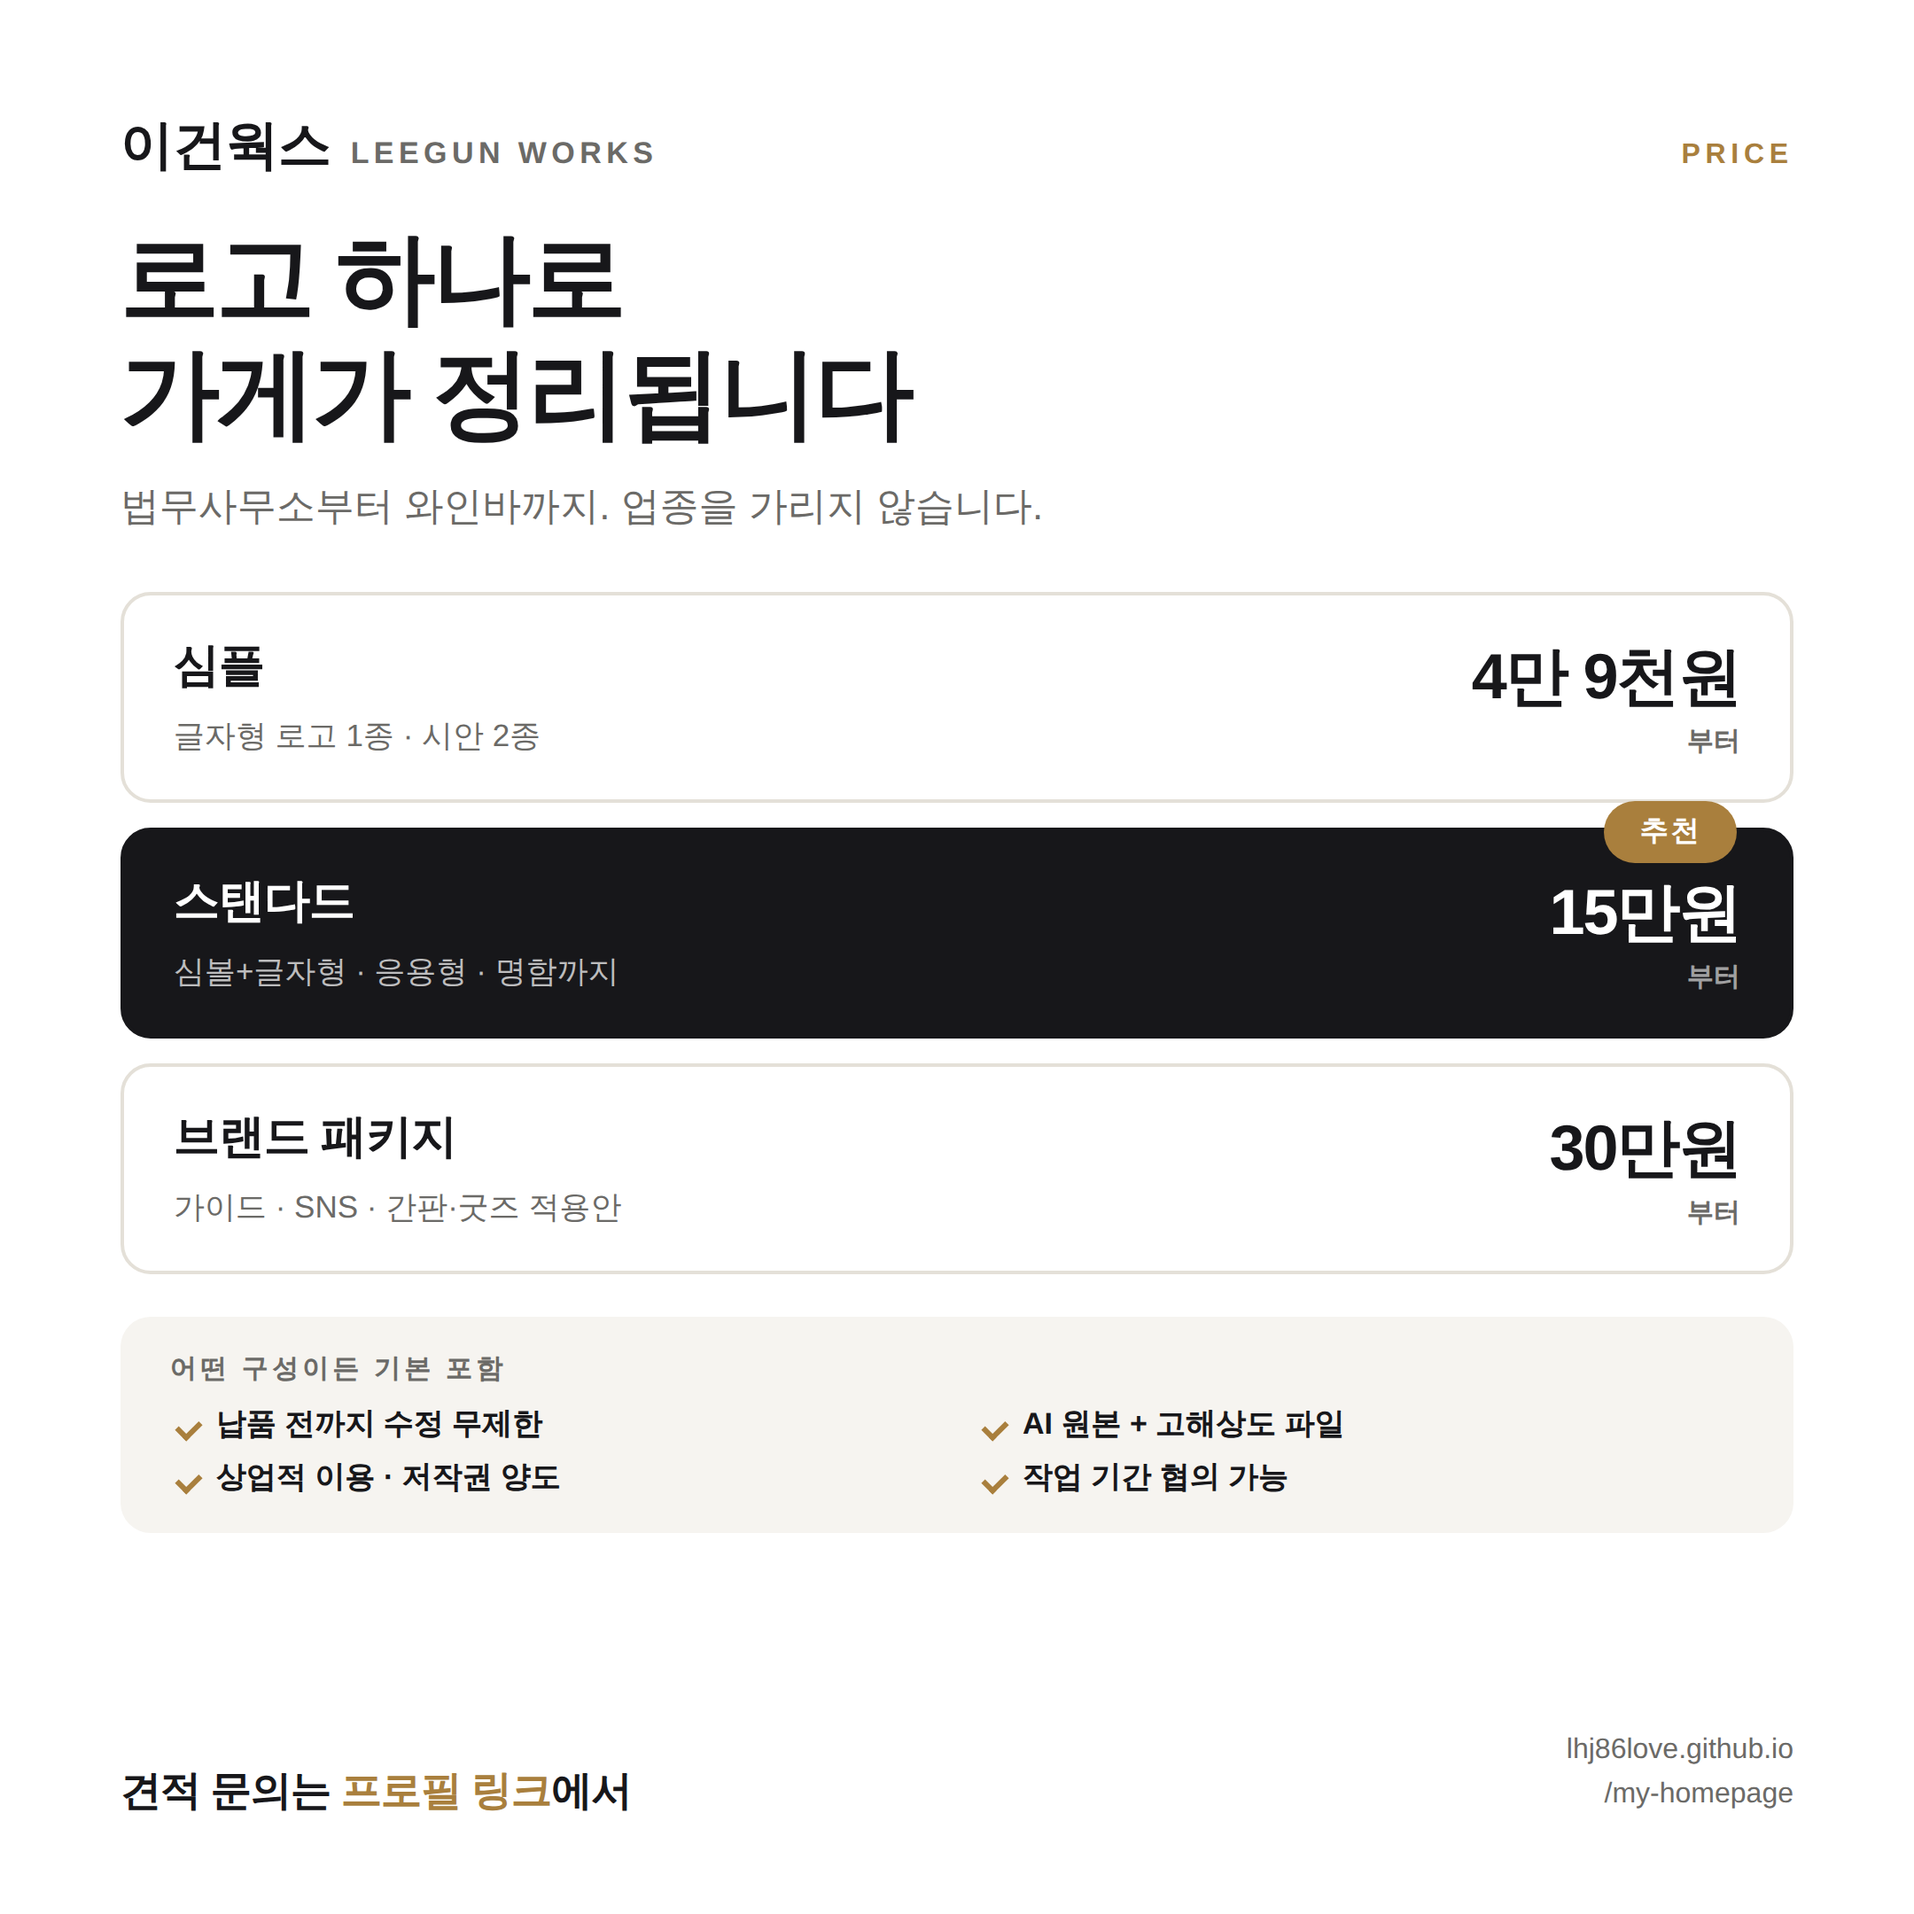
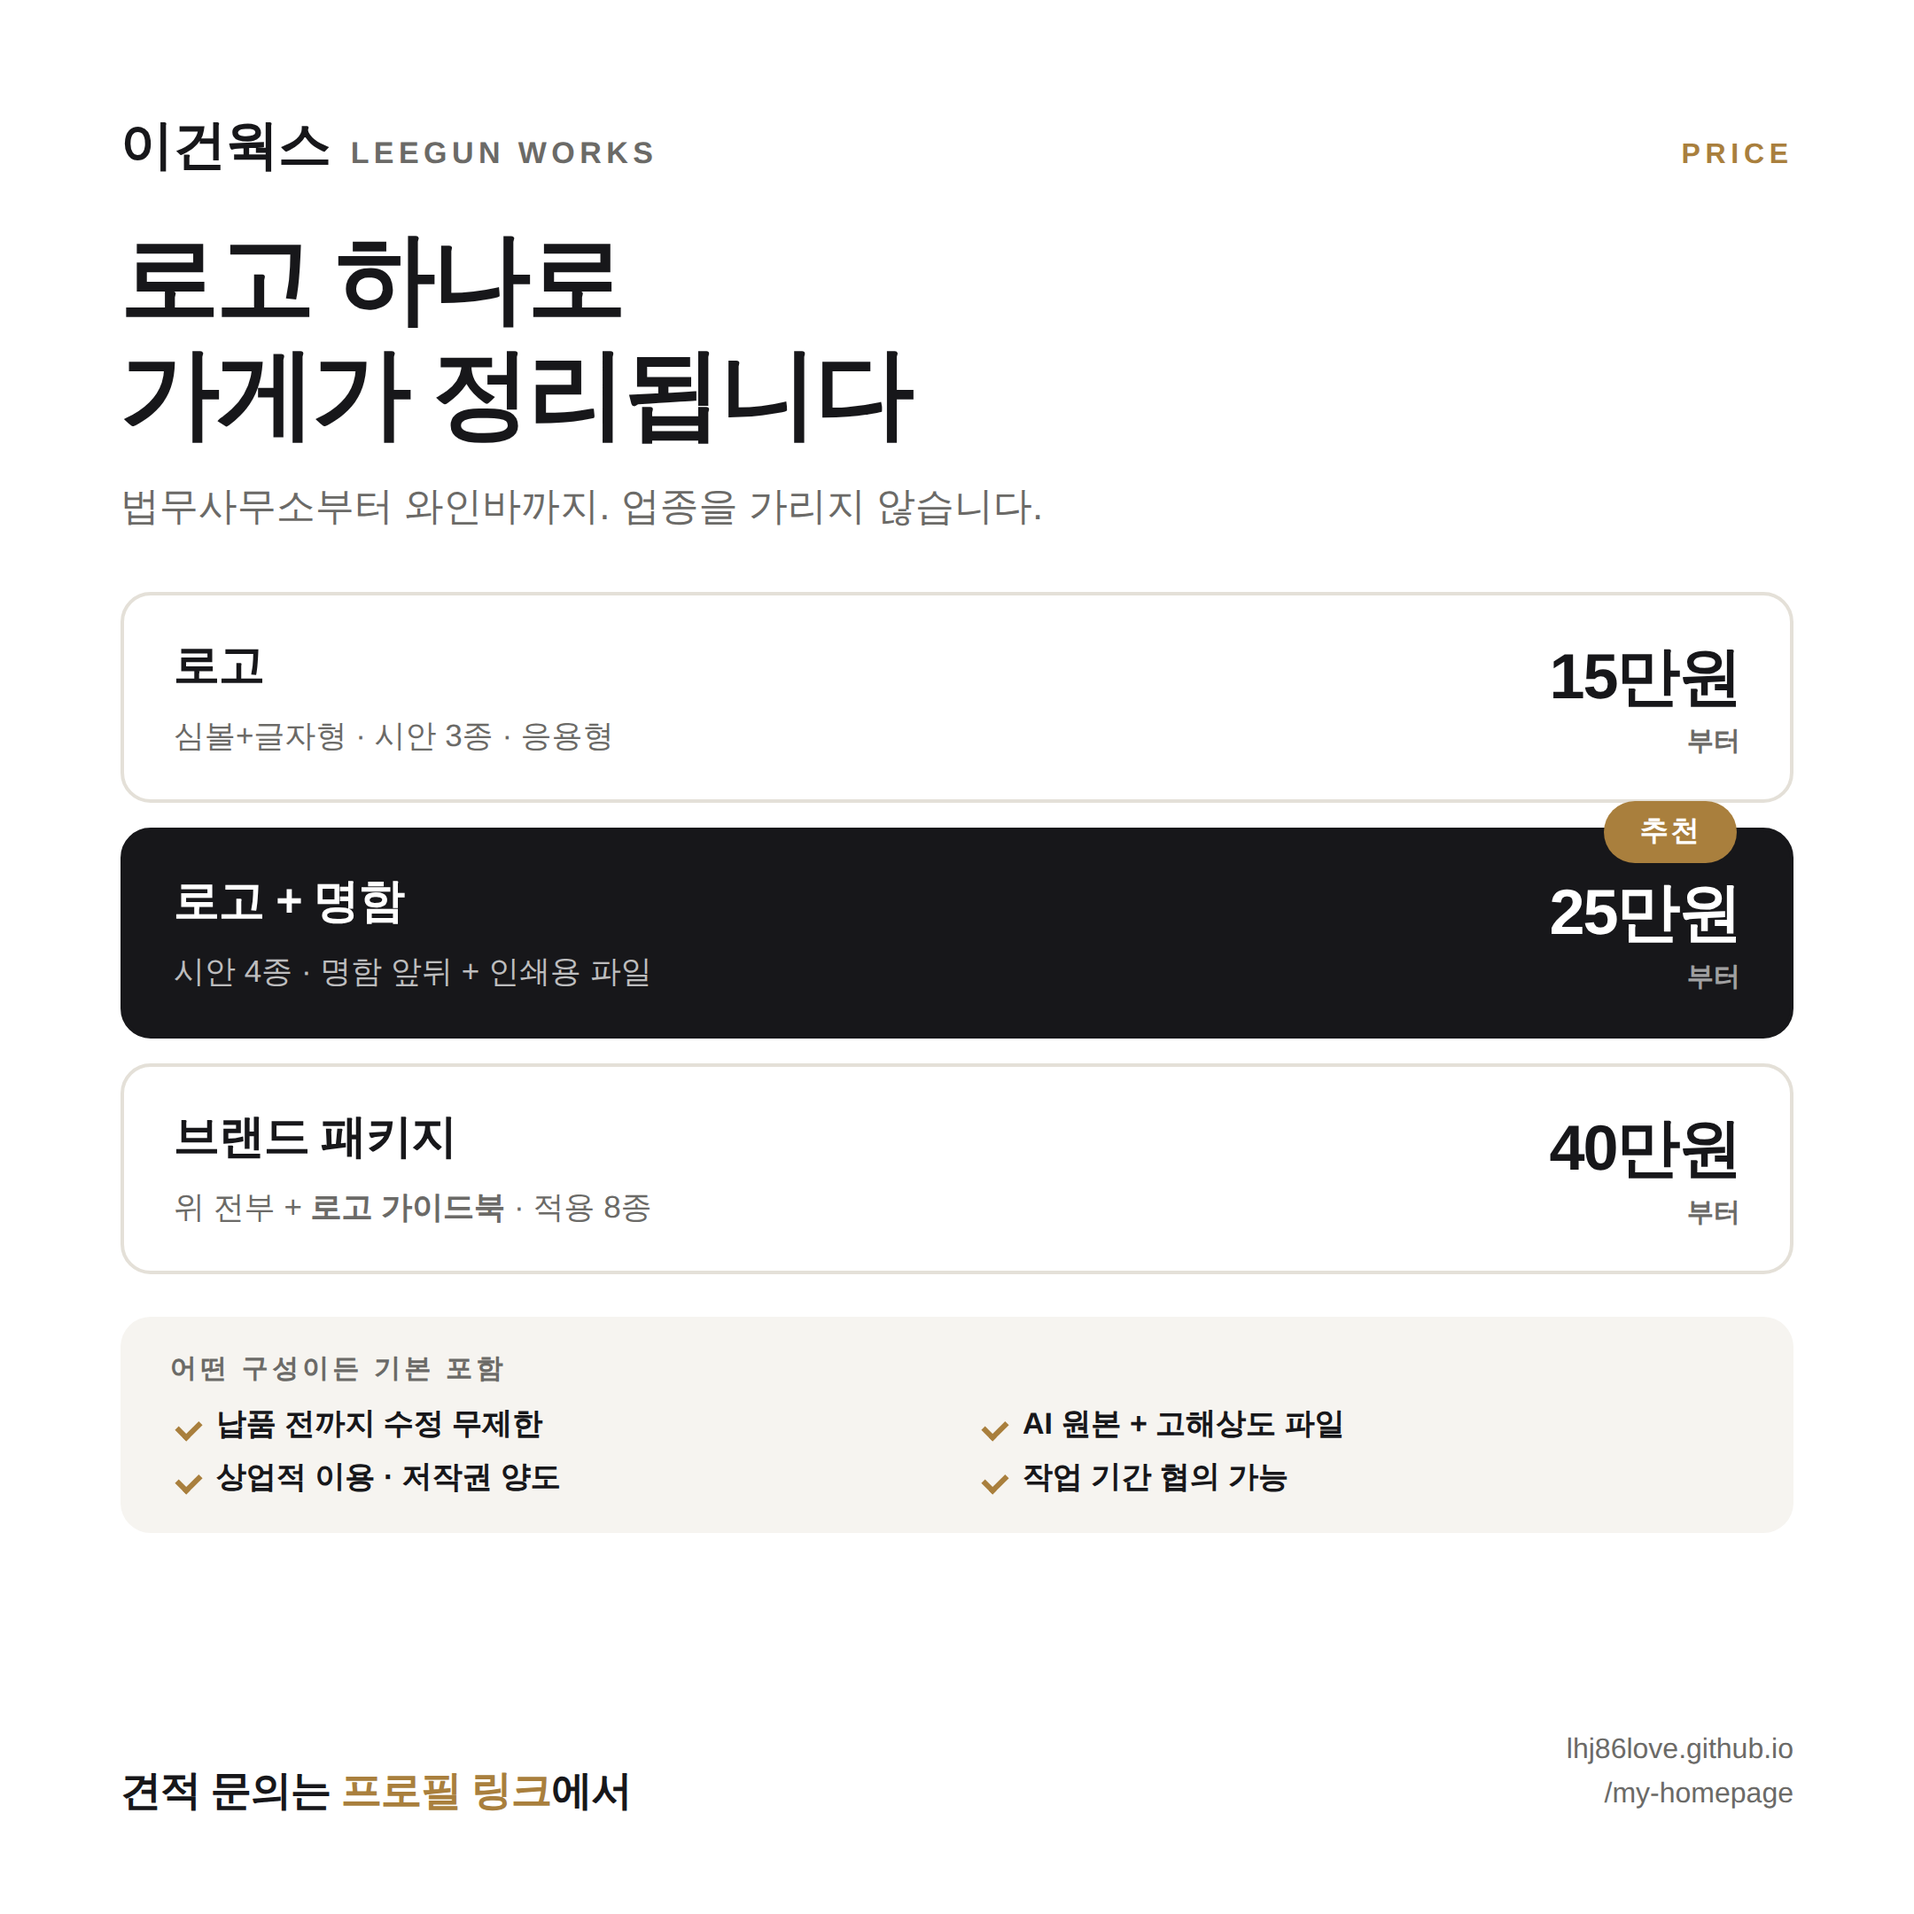
홈페이지 가격을 상위 채널 기준으로 조정, 로고 가이드북 추가
플랫폼(숨고·크몽)은 리뷰를 쌓는 채널, 홈페이지는 제값을 받는 채널로
역할을 나누기로 하여 홈페이지 가격을 상향.

- 구성을 로고 / 로고+명함 / 브랜드 패키지로 재편
  15만 / 25만 / 40만원 (모두 "부터" 표기)
- 진입용 4만 9천원 구성 삭제. 플랫폼보다 낮은 가격이 남아 있어
  직접 의뢰가 가장 비싸 보이던 문제 해소
- 최상위 구성에 로고 가이드북 추가 (색상 값·디자인 컨셉·사용 범위)
- 실제 제공 가능한 항목만 유지. 파비콘·모션 로고·상표 출원 파일 등
  제공하지 않는 항목은 넣지 않음
- 기존 로고를 명함에 넣을 때 원본 파일이 필요한 이유를 안내문과
  "걱정되시죠" 항목에 명시 (저작권 문제)
- 추가 옵션을 실제 발생하는 것으로 교체 (약도·일러스트·급행)
- SNS 가격표 이미지 2종 새 가격으로 재생성

Claude-Session: https://claude.ai/code/session_017k88eCwHgaHqXUauqk9q1x

diff --git a/sns/가격표-이미지-원본.html b/sns/가격표-이미지-원본.html
@@ -22,7 +22,7 @@
     display: flex; flex-direction: column;
     overflow: hidden;
   }
-  .card.ratio45 { width: 1080px; height: 1350px; padding: 78px 72px 68px; }
+  .card.ratio45 { width: 1080px; height: 1350px; padding: 70px 72px 60px; }
   .card.ratio11 { width: 1080px; height: 1080px; padding: 62px 68px 54px; }
 
   /* ---------- 머리 ---------- */
@@ -37,7 +37,7 @@
   .ratio11 .lede { font-size: 22px; margin-top: 14px; }
 
   /* ---------- 가격 목록 ---------- */
-  .tiers { margin-top: 46px; display: flex; flex-direction: column; gap: 18px; }
+  .tiers { margin-top: 40px; display: flex; flex-direction: column; gap: 18px; }
   .ratio11 .tiers { margin-top: 32px; gap: 14px; }
 
   .tier {
@@ -63,6 +63,7 @@
   .t-left { flex: 1; min-width: 0; }
   .t-name { font-size: 30px; font-weight: 800; letter-spacing: -.02em; }
   .ratio11 .t-name { font-size: 26px; }
+  .t-items b { color: inherit; font-weight: 800; }
   .t-items { margin-top: 11px; font-size: 20px; line-height: 1.6; color: var(--soft); }
   .ratio11 .t-items { font-size: 17.5px; margin-top: 8px; }
 
@@ -73,7 +74,7 @@
 
   /* ---------- 공통 ---------- */
   .common {
-    margin-top: 34px; background: var(--alt); border-radius: 20px;
+    margin-top: 28px; background: var(--alt); border-radius: 20px;
     padding: 26px 32px;
   }
   .ratio11 .common { margin-top: 24px; padding: 20px 28px; border-radius: 17px; }
@@ -117,27 +118,27 @@
   <div class="tiers">
     <div class="tier">
       <div class="t-left">
-        <p class="t-name">심플</p>
-        <p class="t-items">글자형 로고 1종 · 시안 2종 · 작업 5일</p>
+        <p class="t-name">로고</p>
+        <p class="t-items">심볼+글자형 · 시안 3종 · 응용형 3종 · 작업 7일</p>
       </div>
-      <p class="t-price">4만 9천원<small>부터</small></p>
+      <p class="t-price">15만원<small>부터</small></p>
     </div>
 
     <div class="tier best">
       <span class="badge">추천</span>
       <div class="t-left">
-        <p class="t-name">스탠다드</p>
-        <p class="t-items">심볼+글자형 로고 · 시안 3종 · 응용형 포함<br>명함 앞뒤 디자인 + 인쇄용 파일 · 작업 7일</p>
+        <p class="t-name">로고 + 명함</p>
+        <p class="t-items">시안 4종 · 적용 이미지 5종 · 작업 10일<br>명함 앞뒤 디자인 + 인쇄용 파일</p>
       </div>
-      <p class="t-price">15만원<small>부터</small></p>
+      <p class="t-price">25만원<small>부터</small></p>
     </div>
 
     <div class="tier">
       <div class="t-left">
         <p class="t-name">브랜드 패키지</p>
-        <p class="t-items">스탠다드 전부 + 색상·서체 가이드<br>SNS 프로필 · 간판·굿즈 적용안 · 작업 10일</p>
+        <p class="t-items">위 전부 + <b>로고 가이드북</b> · 작업 14일<br>적용 이미지 8종 (간판·굿즈·포장)</p>
       </div>
-      <p class="t-price">30만원<small>부터</small></p>
+      <p class="t-price">40만원<small>부터</small></p>
     </div>
   </div>
 
@@ -173,27 +174,27 @@
   <div class="tiers">
     <div class="tier">
       <div class="t-left">
-        <p class="t-name">심플</p>
-        <p class="t-items">글자형 로고 1종 · 시안 2종</p>
+        <p class="t-name">로고</p>
+        <p class="t-items">심볼+글자형 · 시안 3종 · 응용형</p>
       </div>
-      <p class="t-price">4만 9천원<small>부터</small></p>
+      <p class="t-price">15만원<small>부터</small></p>
     </div>
 
     <div class="tier best">
       <span class="badge">추천</span>
       <div class="t-left">
-        <p class="t-name">스탠다드</p>
-        <p class="t-items">심볼+글자형 · 응용형 · 명함까지</p>
+        <p class="t-name">로고 + 명함</p>
+        <p class="t-items">시안 4종 · 명함 앞뒤 + 인쇄용 파일</p>
       </div>
-      <p class="t-price">15만원<small>부터</small></p>
+      <p class="t-price">25만원<small>부터</small></p>
     </div>
 
     <div class="tier">
       <div class="t-left">
         <p class="t-name">브랜드 패키지</p>
-        <p class="t-items">가이드 · SNS · 간판·굿즈 적용안</p>
+        <p class="t-items">위 전부 + <b>로고 가이드북</b> · 적용 8종</p>
       </div>
-      <p class="t-price">30만원<small>부터</small></p>
+      <p class="t-price">40만원<small>부터</small></p>
     </div>
   </div>
 

diff --git a/config.js b/config.js
@@ -41,6 +41,10 @@ const SITE = {
       a: "납품 전까지는 수정 횟수를 세지 않습니다. 방향 자체가 안 맞으면 처음부터 다시 제안드립니다.",
     },
     {
+      q: "이미 쓰던 로고를 명함에 넣고 싶어요.",
+      a: "로고 원본 파일(AI·EPS)을 주시면 그대로 넣어드립니다. 원본 없이 제가 다시 그리면 저작권 문제가 생겨서, 그 방식으로는 작업하지 않습니다.",
+    },
+    {
       q: "예전에 한 번 맡겼다가 실패했어요.",
       a: "맡기기 전에 같은 업종 작업물을 먼저 보고 판단하세요. 위에 있는 작업물은 전부 실제로 납품한 결과물입니다.",
     },
@@ -63,38 +67,40 @@ const SITE = {
 
   services: [
     {
-      title: "심플",
-      price: "4만 9천원부터",
-      desc: "가게 이름만 있으면 되는 분께.",
-      items: [
-        "글자형(워드마크) 로고 1종",
-        "시안 2종 제안",
-        "작업 5일 (협의 가능)",
-      ],
-    },
-    {
-      title: "스탠다드",
+      title: "로고",
       price: "15만원부터",
-      best: true,
-      desc: "간판부터 명함까지 한 번에 정리하고 싶은 분께. 대부분 이 구성을 선택하십니다.",
+      desc: "간판과 SNS에 바로 쓸 로고 하나가 필요한 분께.",
       items: [
         "심볼 + 글자형 로고",
         "시안 3종 제안",
-        "가로형·세로형·흑백 응용형 포함",
-        "명함 앞뒤 디자인 + 인쇄용 파일",
+        "가로형·세로형·흑백 응용형",
+        "적용 이미지 3종",
         "작업 7일 (협의 가능)",
       ],
     },
     {
-      title: "브랜드 패키지",
-      price: "30만원부터",
-      desc: "간판, 포장, SNS까지 하나의 톤으로 맞추고 싶은 분께.",
+      title: "로고 + 명함",
+      price: "25만원부터",
+      best: true,
+      desc: "간판부터 명함까지 한 번에 정리하고 싶은 분께.",
       items: [
-        "스탠다드 구성 전부 포함",
-        "색상·서체 사용 가이드",
-        "SNS 프로필·썸네일",
-        "간판·굿즈 적용안",
+        "심볼 + 글자형 로고",
+        "시안 4종 제안",
+        "가로형·세로형·흑백 응용형",
+        "명함 앞뒤 디자인 + 인쇄용 파일",
+        "적용 이미지 5종",
         "작업 10일 (협의 가능)",
+      ],
+    },
+    {
+      title: "브랜드 패키지",
+      price: "40만원부터",
+      desc: "간판, 굿즈, 포장까지 하나의 톤으로 맞추고 싶은 분께.",
+      items: [
+        "로고 + 명함 구성 전부 포함",
+        "로고 가이드북 (색상 값 · 디자인 컨셉 · 사용 범위)",
+        "적용 이미지 8종 (간판·굿즈·포장 등)",
+        "작업 14일 (협의 가능)",
       ],
     },
   ],
@@ -110,14 +116,16 @@ const SITE = {
   /* 가격표 아래에 작게 붙는 안내 */
   priceFootnote:
     "최종 파일을 납품한 뒤의 수정은 진행하지 않습니다. " +
-    "부득이하게 필요한 경우 별도 협의 후 추가 비용이 발생할 수 있습니다.",
+    "부득이하게 필요한 경우 별도 협의 후 추가 비용이 발생할 수 있습니다. " +
+    "이미 갖고 계신 로고를 명함에 넣으실 때는 로고 원본 파일(AI·EPS)이 필요합니다. " +
+    "다른 곳에서 만든 로고를 저작권자 동의 없이 다시 그려 드리지는 않습니다.",
 
   /* 추가 옵션 */
   priceOptions: [
-    { name: "명함만 따로", price: "5만원부터" },
-    { name: "급행 (3일 이내)", price: "+5만원" },
-    { name: "시안 추가", price: "3만원" },
-    { name: "인쇄 대행 (200매~)", price: "실비" },
+    { name: "명함만 따로 (인쇄 포함)", price: "8만원부터" },
+    { name: "약도 제작", price: "+2만원" },
+    { name: "그림·일러스트 삽입", price: "+1만 5천원부터" },
+    { name: "급행 (기간 단축)", price: "+5만원" },
   ],
 
   /* ---------- 6. 의뢰 요청서 받을 주소 ----------
